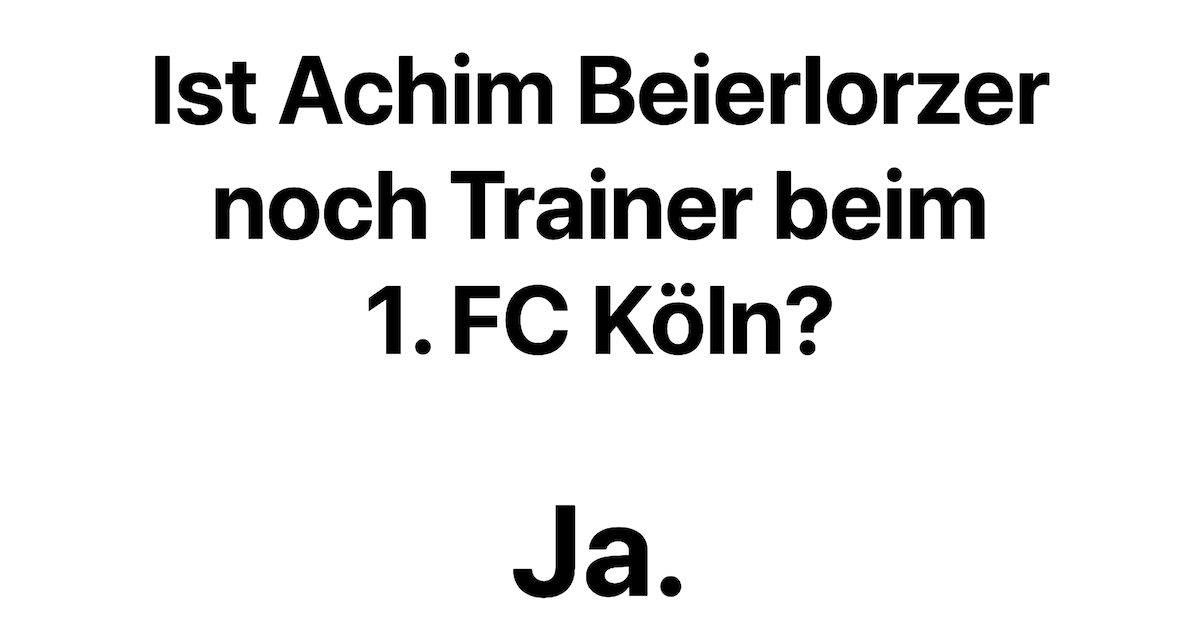
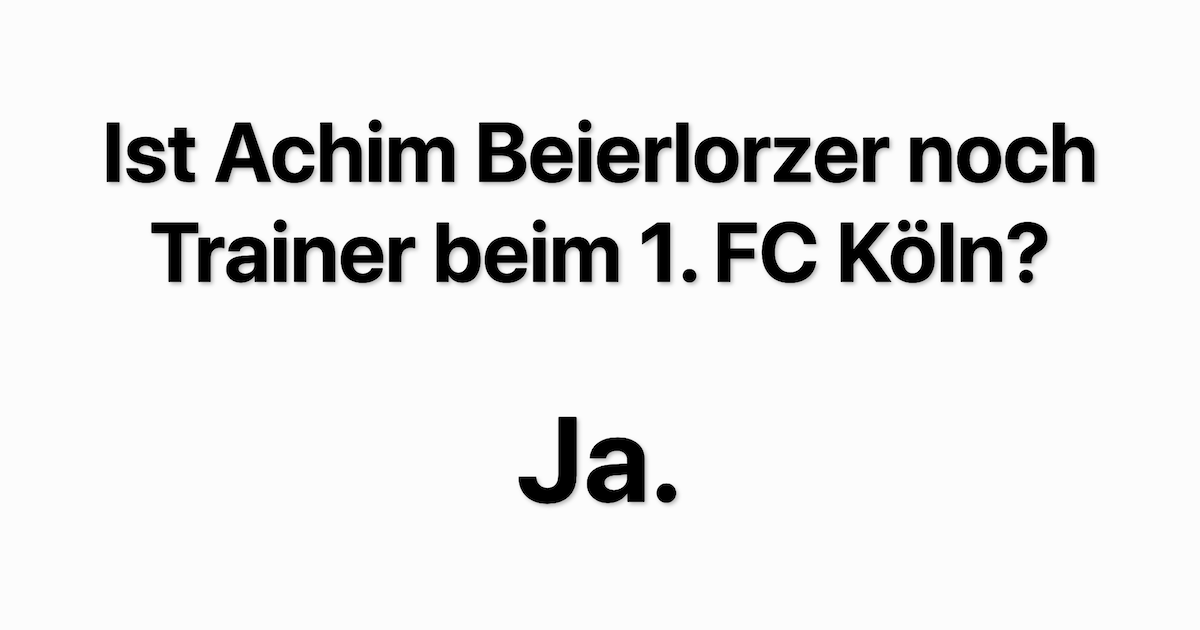
UPDATE: Open Graph Image

Changed region(s): [[0.0617, 0.0905, 0.925, 0.573], [0.4317, 0.6635, 0.5858, 0.9651]]

diff --git a/index.html b/index.html
@@ -8,14 +8,14 @@
 	<meta property="og:title" content="Ist Achim Beierlorzer noch Trainer beim 1. FC Köln?" />
 	<meta property="og:type" content="website" />
 	<meta property="og:description" content="Ist Achim Beierlorzer noch Trainer beim 1. FC Köln?" />
-	<meta property="og:image" content="https://istachimbeierlorzernochfctrainer.now.sh/og-image.png" />
+	<meta property="og:image" content="https://istachimbeierlorzernochfctrainer.now.sh/og-image.png?v2" />
 	<meta property="og:url" content="https://istachimbeierlorzernochfctrainer.now.sh/" />
 	<meta property="og:image:width" content="1200" />
 	<meta property="og:image:height" content="630" />
 	<meta name="twitter:card" content="summary_large_image" />
 	<meta name="twitter:title" content="Ist Achim Beierlorzer noch Trainer beim 1. FC Köln?" />
 	<meta name="twitter:description" content="Ist Achim Beierlorzer noch Trainer beim 1. FC Köln?" />
-	<meta name="twitter:image" content="https://istachimbeierlorzernochfctrainer.now.sh/og-image.png" />
+	<meta name="twitter:image" content="https://istachimbeierlorzernochfctrainer.now.sh/og-image.png?v2" />
 	<meta name="theme-color" content="#c00">
 	<style>
 		html {
